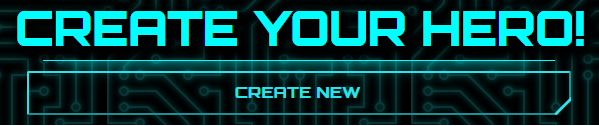
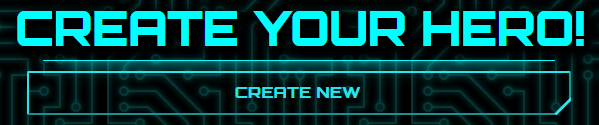
Update styles for create hero screen

diff --git a/src/components/CreateHeroScreen.module.css b/src/components/CreateHeroScreen.module.css
@@ -411,6 +411,7 @@ body{
   transition: color 0.3s;
   margin-bottom: 0.2rem;
   margin-right: 0.2rem;
+  margin-left: 0.2rem;
 }
 .addHorizontal:hover {
   color: rgb(0, 211, 102);
@@ -432,21 +433,22 @@ body{
 .addHorizontal::after {
   content: "";
   position: absolute;
+  /* background: #fcf5fc; !!!!!!!!!!!!!!!!!!!!!!!!!!!*/
   background: #1e181e;
   z-index: 1;
   transition: all 0.3s;
 }
 .addHorizontal::before {
   width: calc(100% - 1.3rem);
-  height: calc(101% + 0.7rem);
-  top: -0.3rem;
+  height: calc(101% + 0.74rem); /* 0.7 =>0.6 */
+  top: -0.37rem;
   left: 50%;
   transform: translateX(-50%);
 }
 .addHorizontal::after {
   height: calc(100% - 1.3rem);
-  width: calc(101% + 0.7rem);
-  left: -0.3rem;
+  width: calc(101% + 0.65rem); /* 0.7 =>0.55 */
+  left: -0.32rem;
   top: 50%;
   transform: translateY(-50%);
 }
@@ -486,21 +488,22 @@ body{
 .cancelVertical::after {
   content: "";
   position: absolute;
+  /* background: #fcf5fc; !!!!!!!!!!!!!!!!!!!!!!!!!!!*/
   background: #1e181e;
   z-index: 1;
   transition: all 0.3s;
 }
 .cancelVertical::before {
   width: calc(100% - 1.3rem);
-  height: calc(101% + 0.7rem);
-  top: -0.3rem;
+  height: calc(101% + 0.71rem); /* 0.7 =>0.65 */
+  top: -0.37rem; /* -0.3 => -0.34 */
   left: 50%;
   transform: translateX(-50%);
 }
 .cancelVertical::after {
   height: calc(100% - 1.3rem);
-  width: calc(101% + 1rem);
-  left: -0.5rem;
+  width: calc(101% + 0.7rem); /* 1 =>0.65 */
+  left: -0.37rem; /* -0.3 => -0.34 */
   top: 50%;
   transform: translateY(-50%);
 }
@@ -528,6 +531,22 @@ body{
   height: 0;
 }
 
+@media (max-width: 1366px) {
+  .mainPanel {
+    display: flex;
+    flex-direction: column;
+    width: 100%;
+    /* justify-content: center; */
+    /* width: 85w; */
+  }
+  .leftSideOfPanel {
+    width: 100%;
+    align-self: center;
+  }
+  .rightSideOfPanel {
+  }
+}
+
 @media (max-width: 767px) {
   .buttonGlowing {
     width: 85vw;
@@ -536,12 +555,16 @@ body{
     width: 85vw;
     text-align: center;
   }
-}
-
-@media (max-width: 1100px) {
   .mainPanel {
     display: flex;
     flex-direction: column;
-    width: 85vw;
+    /* width: 65w; */
+    min-width: 85w;
   }
+  .leftSideOfPanel {
+    width: 100%;
+  }
+  /* .interfaceWrapper {
+    width: 90vw;
+  } */
 }

diff --git a/src/components/CreateHeroScreen.js b/src/components/CreateHeroScreen.js
@@ -89,7 +89,7 @@ function CreateHeroScreen(props) {
       )}
 
       {props.isCreating && (
-        <div>
+        <div className={classes.interfaceWrapper}>
           {/* dowloader component */}
           <DownloaderUploader
             hero={theHero}

diff --git a/src/utils/DownloadUploadHero.module.css b/src/utils/DownloadUploadHero.module.css
@@ -300,7 +300,7 @@
 
 @media (max-width: 767px) {
   .downloadButtonsWrapper {
-    width: 85vw;
+    width: 99%;
   }
   .buttonsContainer {
     display: flex;

diff --git a/README.md b/README.md
@@ -38,7 +38,7 @@ Built with:
   to JSON" and "Upload from JSON" buttons  
   ![](./screenshots/screenshotJSON.png)
 
-- After you finished creating the hero, click "Save and back to main button"
+- After you finished creating the hero, click "Save and back to main" button
   ![](./screenshots/screenshotBack.png)
 
 - You can hit or delete your hero just pressing proper buttons
